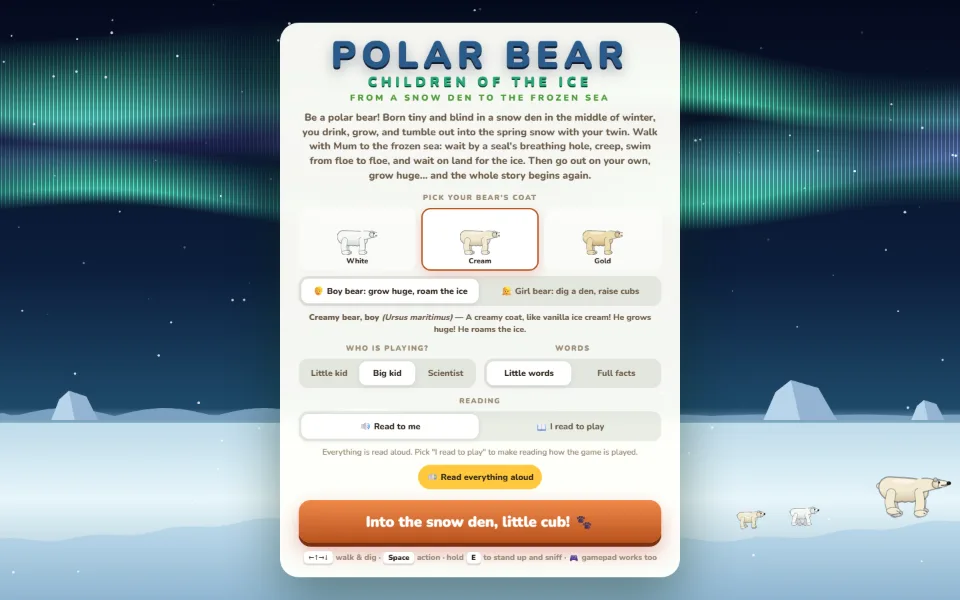
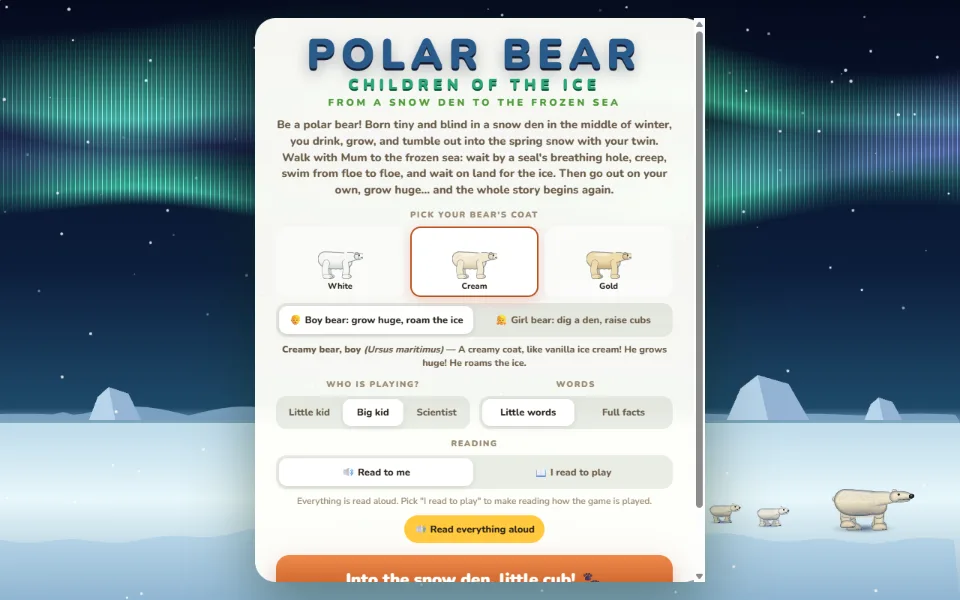
Nature games: painted title screens for Hercules, Red Crab, Lobster, Wolf, Polar Bear and Garter Snake (games and card pictures)

Changed region(s): [[0.0, 0.03, 1.0, 0.99], [0.9062, 0.66, 1.0, 0.72]]

diff --git a/docs/snake/js/main.js b/docs/snake/js/main.js
@@ -368,7 +368,13 @@
     } else if (!G.started) { G.time += rawDt; G.world.update(rawDt * .3, G.tod, p); }
     G.particles.update(dt, (x) => G.world.topAt(x));
     camera(rawDt);
-    Render.frame(G, dt);
+    /* behind the title, with the painted look: the world from the title camera, its animals beside the card (the summer meadow with the newborns) */
+    if (!G.started && typeof GFX !== 'undefined' && GFX.active()) {
+      const c0 = { x: G.cam.x, y: G.cam.y, zoom: G.cam.zoom }, tod0 = G.tod, n0 = G.night;
+      Object.assign(G.cam, { x: 150 + .33 * W / 1.4, y: -160, zoom: 1.4 }); G.tod = 0.45;
+      Render.frame(G, dt);
+      Object.assign(G.cam, c0); G.tod = tod0; G.night = n0;
+    } else Render.frame(G, dt);
     frames++;
     if (params.has('debug') || params.has('debughud')) document.title = `m=${modal ? 1 : 0} st=${G.started ? 1 : 0} ts=${Cinematic.timeScale.toFixed(2)} w=${G.warp} fps=${Render.getFps().toFixed(0)} npc=${G.world.npcs.length} t=${G.time.toFixed(1)} ${p.stage}/${p.mode} i${p.instar} food=${p.cfood.toFixed(0)} belly=${p.belly.toFixed(1)} warm=${p.warm.toFixed(2)} shed=${p.shed} p=${p.x.toFixed(0)},${p.y.toFixed(0)} npc=${G.world.npcs.length} fps=${Render.getFps().toFixed(0)}${typeof GFX !== 'undefined' && GFX.active() ? ` gl=${GFX.stats().ms.toFixed(1)}ms up=${GFX.stats().upload.toFixed(1)}ms` : ''}`;
     if (G.started) UI.update(rawDt);
@@ -394,6 +400,8 @@
     if (title.classList.contains('out')) return;
     tt += dt;
     if (tc.width !== W * DPR || tc.height !== H * DPR) { tc.width = W * DPR; tc.height = H * DPR; }
+    /* with the painted look the title shows the painted world (rendered this frame from the title camera) */
+    if (typeof GFX !== 'undefined' && GFX.active()) { tctx.setTransform(1, 0, 0, 1, 0, 0); tctx.drawImage(GFX.canvas(), 0, 0, tc.width, tc.height); return; }
     tctx.setTransform(DPR, 0, 0, DPR, 0, 0);
     const g = tctx.createLinearGradient(0, 0, 0, H); g.addColorStop(0, '#5aa8e0'); g.addColorStop(.55, '#cfe8f4'); g.addColorStop(.56, '#8ab868'); g.addColorStop(1, '#4a7a30');
     tctx.fillStyle = g; tctx.fillRect(0, 0, W, H);

diff --git a/docs/wolf/js/main.js b/docs/wolf/js/main.js
@@ -568,7 +568,13 @@
     } else if (!G.started) { G.time += rawDt; G.world.update(rawDt * .3, G.tod, p); }
     G.particles.update(dt, (x) => G.world.ground.walkTop(x, 4));
     camera(rawDt);
-    Render.frame(G, dt);
+    /* behind the title, with the painted look: the world from the title camera, its animals beside the card (the den hill, the pack and the mountains) */
+    if (!G.started && typeof GFX !== 'undefined' && GFX.active()) {
+      const c0 = { x: G.cam.x, y: G.cam.y, zoom: G.cam.zoom }, tod0 = G.tod, n0 = G.night;
+      Object.assign(G.cam, { x: 250 + .3 * W / 1.25, y: -200, zoom: 1.25 }); G.tod = 0.3;
+      Render.frame(G, dt);
+      Object.assign(G.cam, c0); G.tod = tod0; G.night = n0;
+    } else Render.frame(G, dt);
     frames++;
     if (params.has('debug')) document.title = `t=${G.time.toFixed(1)} age${p.age}/${p.mode} food=${p.food.toFixed(0)} kg=${p.kg.toFixed(1)} w=${p.warmth.toFixed(2)} p=${p.x.toFixed(0)},${p.y.toFixed(0)} ph=${G.world.phase} fps=${Render.getFps().toFixed(0)}${typeof GFX !== 'undefined' && GFX.active() ? ` gl=${GFX.stats().ms.toFixed(1)}ms` : ''}`;
     if (G.started) UI.update(rawDt);
@@ -588,6 +594,8 @@
     if (title.classList.contains('out')) return;
     tt += dt;
     if (tc.width !== W * DPR || tc.height !== H * DPR) { tc.width = W * DPR; tc.height = H * DPR; }
+    /* with the painted look the title shows the painted world (rendered this frame from the title camera) */
+    if (typeof GFX !== 'undefined' && GFX.active()) { tctx.setTransform(1, 0, 0, 1, 0, 0); tctx.drawImage(GFX.canvas(), 0, 0, tc.width, tc.height); return; }
     tctx.setTransform(DPR, 0, 0, DPR, 0, 0);
     const g = tctx.createLinearGradient(0, 0, 0, H); g.addColorStop(0, '#0c1230'); g.addColorStop(.4, '#3a2a5c'); g.addColorStop(.62, '#e8805a'); g.addColorStop(.7, '#ffc890'); g.addColorStop(.72, '#5a6a8a'); g.addColorStop(1, '#1a2238');
     tctx.fillStyle = g; tctx.fillRect(0, 0, W, H);

diff --git a/docs/red-crab/js/main.js b/docs/red-crab/js/main.js
@@ -553,7 +553,13 @@
     } else if (!G.started) { G.time += rawDt; G.world.update(rawDt * .3, G.tod, p); }
     G.particles.update(dt, (x) => G.world.ground.walkTop(x, 4));
     camera(rawDt);
-    Render.frame(G, dt);
+    /* behind the title, with the painted look: the world from the title camera, its animals beside the card (the beach under the palms, Mum by the sea) */
+    if (!G.started && typeof GFX !== 'undefined' && GFX.active()) {
+      const c0 = { x: G.cam.x, y: G.cam.y, zoom: G.cam.zoom }, tod0 = G.tod, n0 = G.night;
+      Object.assign(G.cam, { x: 58 - .3 * W / 1.5, y: -150, zoom: 1.5 }); G.tod = 0.2;
+      Render.frame(G, dt);
+      Object.assign(G.cam, c0); G.tod = tod0; G.night = n0;
+    } else Render.frame(G, dt);
     frames++;
     if (params.has('debug')) document.title = `t=${G.time.toFixed(1)} ${p.stage}/${p.mode} i${p.instar} z${p.zinstar} food=${p.food.toFixed(0)}/${p.cfood.toFixed(0)} w=${p.water.toFixed(2)} p=${p.x.toFixed(0)},${p.y.toFixed(0)} fps=${Render.getFps().toFixed(0)}${typeof GFX !== 'undefined' && GFX.active() ? ` gl=${GFX.stats().ms.toFixed(1)}ms` : ''}`;
     if (G.started) UI.update(rawDt);
@@ -573,6 +579,8 @@
     if (title.classList.contains('out')) return;
     tt += dt;
     if (tc.width !== W * DPR || tc.height !== H * DPR) { tc.width = W * DPR; tc.height = H * DPR; }
+    /* with the painted look the title shows the painted world (rendered this frame from the title camera) */
+    if (typeof GFX !== 'undefined' && GFX.active()) { tctx.setTransform(1, 0, 0, 1, 0, 0); tctx.drawImage(GFX.canvas(), 0, 0, tc.width, tc.height); return; }
     tctx.setTransform(DPR, 0, 0, DPR, 0, 0);
     const g = tctx.createLinearGradient(0, 0, 0, H); g.addColorStop(0, '#1a1c4a'); g.addColorStop(.45, '#ff9a6a'); g.addColorStop(.62, '#ffd8a0'); g.addColorStop(.63, '#4a90c0'); g.addColorStop(1, '#1a4a7a');
     tctx.fillStyle = g; tctx.fillRect(0, 0, W, H);

diff --git a/docs/lobster/js/main.js b/docs/lobster/js/main.js
@@ -584,7 +584,13 @@
     } else if (!G.started) { G.time += rawDt; G.world.update(rawDt * .3, G.tod, p); }
     G.particles.update(dt, (x) => G.world.ground.walkTop(x, 4));
     camera(rawDt);
-    Render.frame(G, dt);
+    /* behind the title, with the painted look: the world from the title camera, its animals beside the card (the cobble bed in the summer sea) */
+    if (!G.started && typeof GFX !== 'undefined' && GFX.active()) {
+      const c0 = { x: G.cam.x, y: G.cam.y, zoom: G.cam.zoom }, tod0 = G.tod, n0 = G.night;
+      Object.assign(G.cam, { x: 182 + .35 * W / 1.3, y: 280, zoom: 1.3 }); G.tod = 0.45;
+      Render.frame(G, dt);
+      Object.assign(G.cam, c0); G.tod = tod0; G.night = n0;
+    } else Render.frame(G, dt);
     frames++;
     if (params.has('debug')) document.title = `t=${G.time.toFixed(1)} ${p.stage}/${p.mode} i${p.instar} z${p.zinstar} food=${p.food.toFixed(0)}/${p.cfood.toFixed(0)} safe=${p.safe.toFixed(2)} p=${p.x.toFixed(0)},${p.y.toFixed(0)} fps=${Render.getFps().toFixed(0)}${typeof GFX !== 'undefined' && GFX.active() ? ` gl=${GFX.stats().ms.toFixed(1)}ms` : ''}`;
     if (G.started) UI.update(rawDt);
@@ -607,6 +613,8 @@
     if (title.classList.contains('out')) return;
     tt += dt;
     if (tc.width !== W * DPR || tc.height !== H * DPR) { tc.width = W * DPR; tc.height = H * DPR; }
+    /* with the painted look the title shows the painted world (rendered this frame from the title camera) */
+    if (typeof GFX !== 'undefined' && GFX.active()) { tctx.setTransform(1, 0, 0, 1, 0, 0); tctx.drawImage(GFX.canvas(), 0, 0, tc.width, tc.height); return; }
     tctx.setTransform(DPR, 0, 0, DPR, 0, 0);
     const g = tctx.createLinearGradient(0, 0, 0, H); g.addColorStop(0, '#5ab8e0'); g.addColorStop(.12, '#2a86c0'); g.addColorStop(.6, '#0e4a80'); g.addColorStop(1, '#06203a');
     tctx.fillStyle = g; tctx.fillRect(0, 0, W, H);

diff --git a/docs/hercules/js/main.js b/docs/hercules/js/main.js
@@ -449,7 +449,7 @@
     for (const f of flies) { const b = Math.max(0, Math.sin(tt * 1.6 + f.ph)); if (b < .2) continue; tctx.fillStyle = `rgba(200,255,140,${b * .8})`; tctx.beginPath(); tctx.arc(f.x * W + Math.sin(tt * .4 + f.ph) * 20, f.y * H + Math.cos(tt * .3 + f.ph) * 14, 2.4, 0, TAU); tctx.fill(); }
     /* the beetle */
     const bx = ((tt * 26) % (W + 600)) - 300, by = H * .9;
-    tctx.save(); tctx.translate(bx, by); Sprites.drawBeetle(tctx, { s: Math.min(1.2, W / 1200), form: settings.form, wet: .3 + .3 * Math.sin(tt * .2), walk: tt * 7, moving: true, lengthMM: 165, seed: 3 }); tctx.restore();
+    tctx.save(); tctx.translate(bx, by); (typeof GFX !== 'undefined' && GFX.active() && typeof Painted !== 'undefined' ? Painted : Sprites).drawBeetle(tctx, { s: Math.min(1.2, W / 1200), form: settings.form, wet: .3 + .3 * Math.sin(tt * .2), walk: tt * 7, moving: true, lengthMM: 165, seed: 3 }); tctx.restore();
   }
 
   /* ---------- save on leave, install offline ---------- */

diff --git a/docs/polar-bear/js/main.js b/docs/polar-bear/js/main.js
@@ -631,7 +631,7 @@
     for (const c of walkers) {
       c.x += .012 * dt; c.ph += dt * 6; if (c.x > 1.2) c.x -= 1.4;
       const x = c.x * W, s = c.s * Math.min(1.5, W / 900), y = ice(x) - 33 * s;
-      tctx.save(); tctx.translate(x, y); Sprites.drawBear(tctx, { s, form: c.form, age: c.age, walk: c.ph, moving: true, seed: 3, sex: c.age > .9 ? 'girl' : 'boy', collar: false }); tctx.restore();
+      tctx.save(); tctx.translate(x, y); (typeof GFX !== 'undefined' && GFX.active() && typeof Painted !== 'undefined' ? Painted : Sprites).drawBear(tctx, { s, form: c.form, age: c.age, walk: c.ph, moving: true, seed: 3, sex: c.age > .9 ? 'girl' : 'boy', collar: false }); tctx.restore();
     }
     /* light snow */
     tctx.fillStyle = 'rgba(255,255,255,.8)';

diff --git a/docs/lobster/sw.js b/docs/lobster/sw.js
@@ -1,7 +1,7 @@
 /* Lobster: Shell by Shell — offline cache.  Everything the game needs
    is a static file, so we cache the lot on install and serve from the
    cache first.  Bump VERSION when files change. */
-const VERSION = 'lobster-v2';
+const VERSION = 'lobster-v3';
 const FILES = [
   './', './index.html', './hunt.html', './manifest.webmanifest', './css/style.css',
   './js/core.js', './js/facts.js', './js/readlex.js', './js/seabed.js', './js/world.js', './js/sprites.js', './js/paint.js', './js/gfx.js', './js/particles.js',

diff --git a/docs/polar-bear/sw.js b/docs/polar-bear/sw.js
@@ -1,7 +1,7 @@
 /* Polar Bear: Children of the Ice — offline cache.  Everything the game needs
    is a static file, so we cache the lot on install and serve from the
    cache first.  Bump VERSION when files change. */
-const VERSION = 'polarbear-v2';
+const VERSION = 'polarbear-v3';
 const FILES = [
   './', './index.html', './hunt.html', './manifest.webmanifest', './css/style.css',
   './js/core.js', './js/facts.js', './js/readlex.js', './js/arctic.js', './js/world.js', './js/sprites.js', './js/paint.js', './js/particles.js',

diff --git a/docs/hercules/sw.js b/docs/hercules/sw.js
@@ -1,7 +1,7 @@
 /* Hercules: Rainforest Giant — offline cache.  Everything the game needs
    is a static file, so we cache the lot on install and serve from the
    cache first.  Bump VERSION when files change. */
-const VERSION = 'hercules-v3';
+const VERSION = 'hercules-v4';
 const FILES = [
   './', './index.html', './hunt.html', './manifest.webmanifest', './css/style.css',
   './js/core.js', './js/facts.js', './js/readlex.js', './js/wood.js', './js/forest.js', './js/sprites.js', './js/paint.js', './js/particles.js',

diff --git a/docs/red-crab/sw.js b/docs/red-crab/sw.js
@@ -1,7 +1,7 @@
 /* Red Crab: The Great March — offline cache.  Everything the game needs
    is a static file, so we cache the lot on install and serve from the
    cache first.  Bump VERSION when files change. */
-const VERSION = 'redcrab-v2';
+const VERSION = 'redcrab-v3';
 const FILES = [
   './', './index.html', './hunt.html', './manifest.webmanifest', './css/style.css',
   './js/core.js', './js/facts.js', './js/readlex.js', './js/island.js', './js/world.js', './js/sprites.js', './js/paint.js', './js/particles.js',

diff --git a/docs/snake/sw.js b/docs/snake/sw.js
@@ -1,7 +1,7 @@
 /* Garter Snake: Skin by Skin — offline cache.  Everything the game needs
    is a static file, so we cache the lot on install and serve from the
    cache first.  Bump VERSION when files change. */
-const VERSION = 'snake-v2';
+const VERSION = 'snake-v3';
 const FILES = [
   './', './index.html', './hunt.html', './manifest.webmanifest', './css/style.css',
   './js/core.js', './js/facts.js', './js/readlex.js', './js/land.js', './js/world.js', './js/sprites.js', './js/paint.js', './js/particles.js',

diff --git a/docs/wolf/sw.js b/docs/wolf/sw.js
@@ -1,7 +1,7 @@
 /* Wolf: Song of the Valley — offline cache.  Everything the game needs
    is a static file, so we cache the lot on install and serve from the
    cache first.  Bump VERSION when files change. */
-const VERSION = 'wolf-v2';
+const VERSION = 'wolf-v3';
 const FILES = [
   './', './index.html', './hunt.html', './manifest.webmanifest', './css/style.css',
   './js/core.js', './js/facts.js', './js/readlex.js', './js/valley.js', './js/world.js', './js/sprites.js', './js/paint.js', './js/particles.js',
